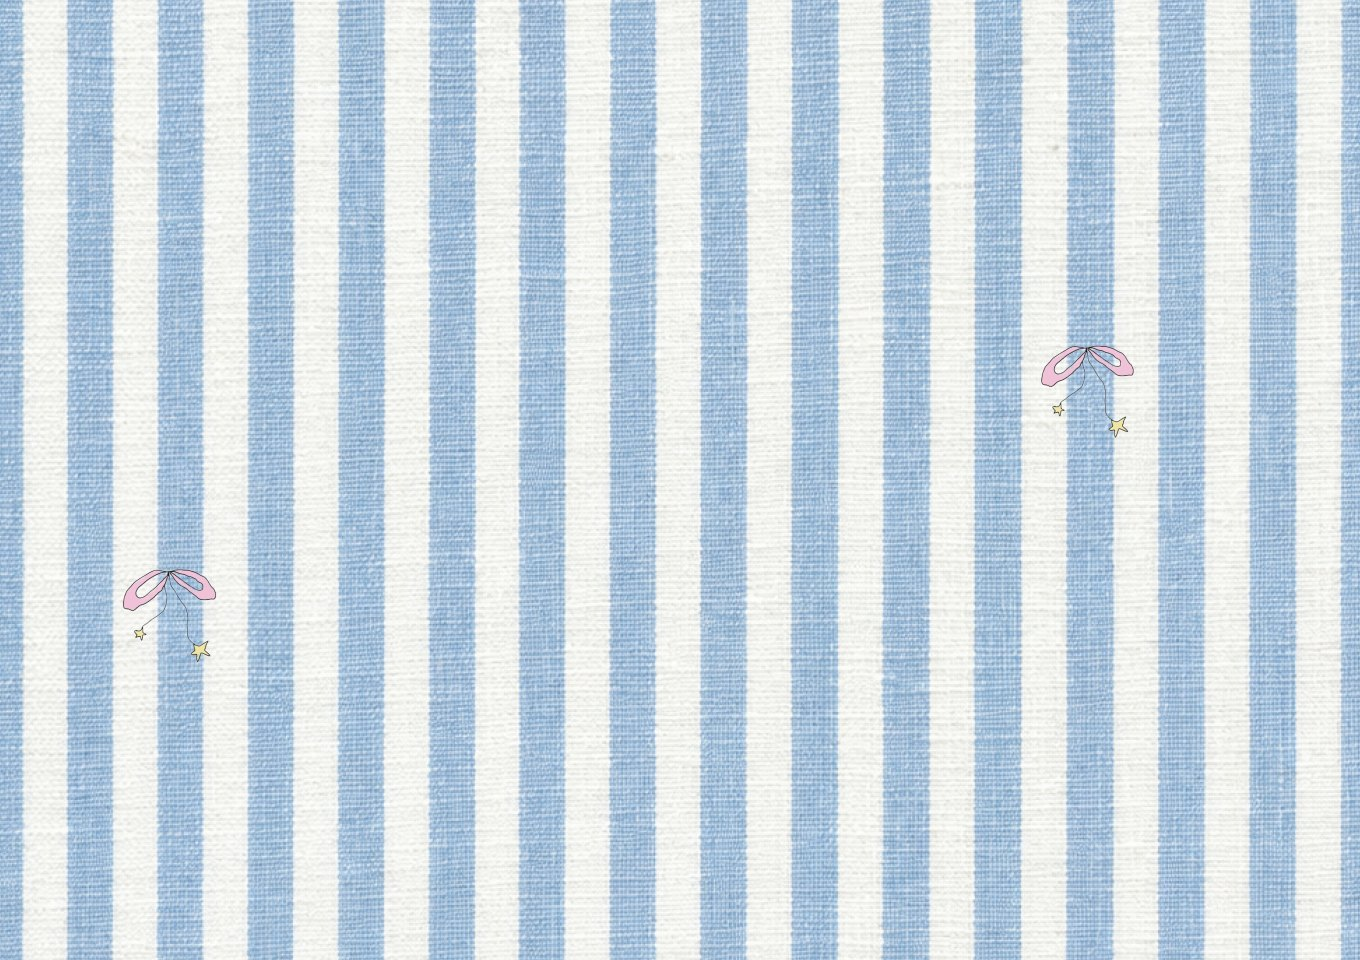
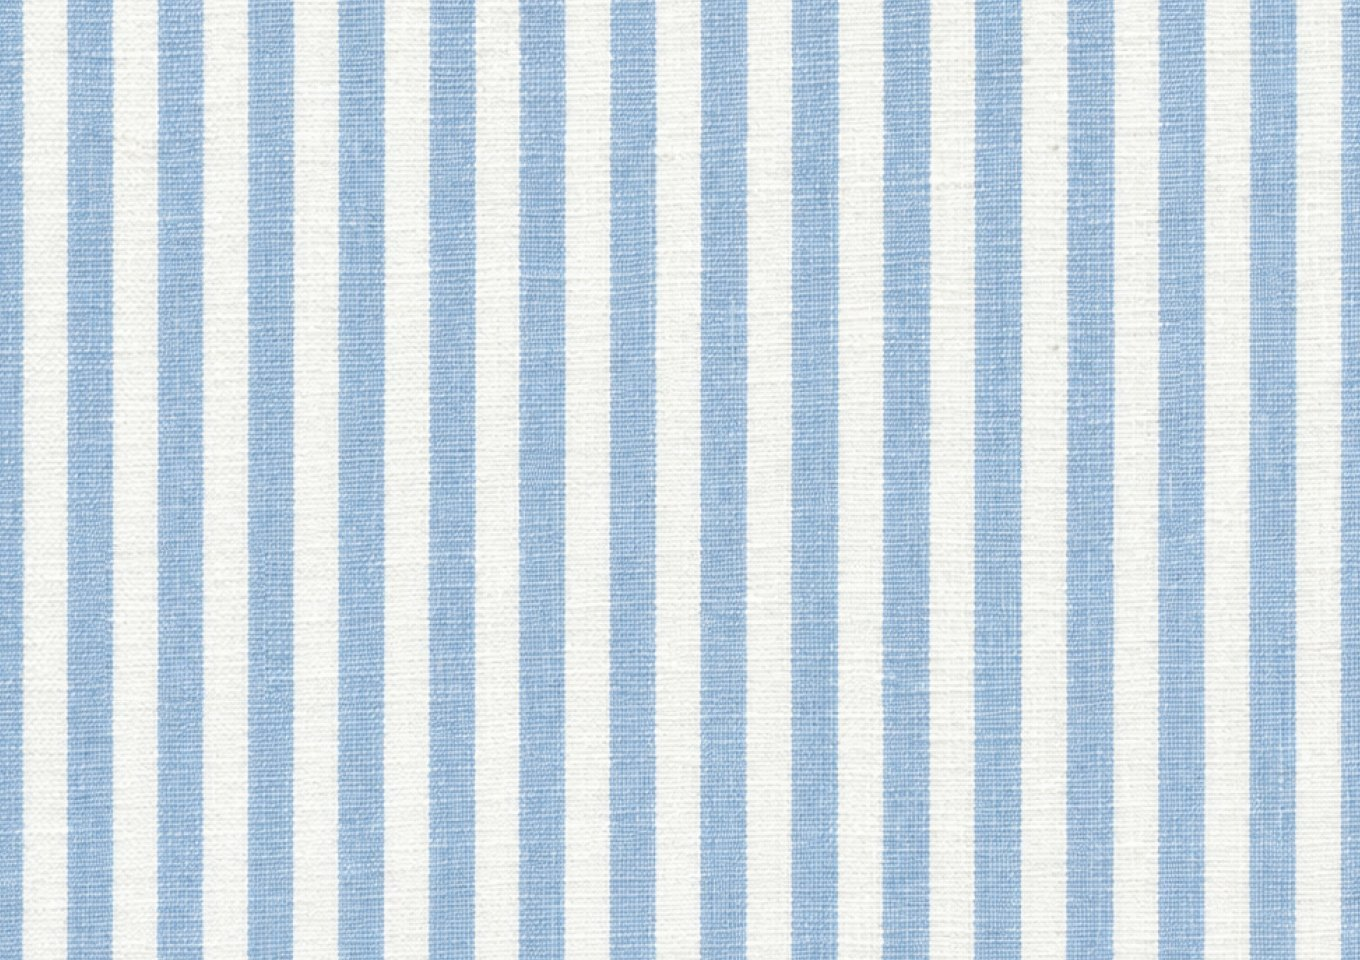
Remove the bows from the hero and move the cat onto it
Claude-Session: https://claude.ai/code/session_01S4gyGZeEjNe6drm6AFfN8H

Changed region(s): [[0.7412, 0.3438, 0.8647, 0.4688], [0.0926, 0.5625, 0.1544, 0.7188]]

diff --git a/resources/views/home.blade.php b/resources/views/home.blade.php
@@ -19,12 +19,13 @@
                 </div>
             @endif
         </div>
+        {{-- القطة مكان الفيونكات --}}
+        <img src="{{ asset('images/alo/cat-sticker.png') }}" alt="" class="pointer-events-none absolute right-[6%] bottom-6 w-36 sm:right-[10%] sm:bottom-10 sm:w-56" loading="lazy">
     </section>
 
-    {{-- ٢. الحكاية (Frame 12): القطة فوق يمين العنوان مثل Figma --}}
-    <section class="relative overflow-hidden bg-cream px-6 pt-36 pb-20 sm:pt-40">
+    {{-- ٢. الحكاية (Frame 12) --}}
+    <section class="relative overflow-hidden bg-cream px-6 py-20">
         <div class="relative mx-auto max-w-[1000px] text-center">
-            <img src="{{ asset('images/alo/cat-sticker.png') }}" alt="" class="pointer-events-none absolute -top-28 right-0 w-36 sm:-top-32 sm:right-[4%] sm:w-52 lg:w-60" loading="lazy">
             @if (filled($text['history_title']))
                 <h2 class="squiggle text-center font-story text-[30px] leading-tight text-ink sm:text-[34px]" dir="ltr">{{ $text['history_title'] }}</h2>
             @endif
